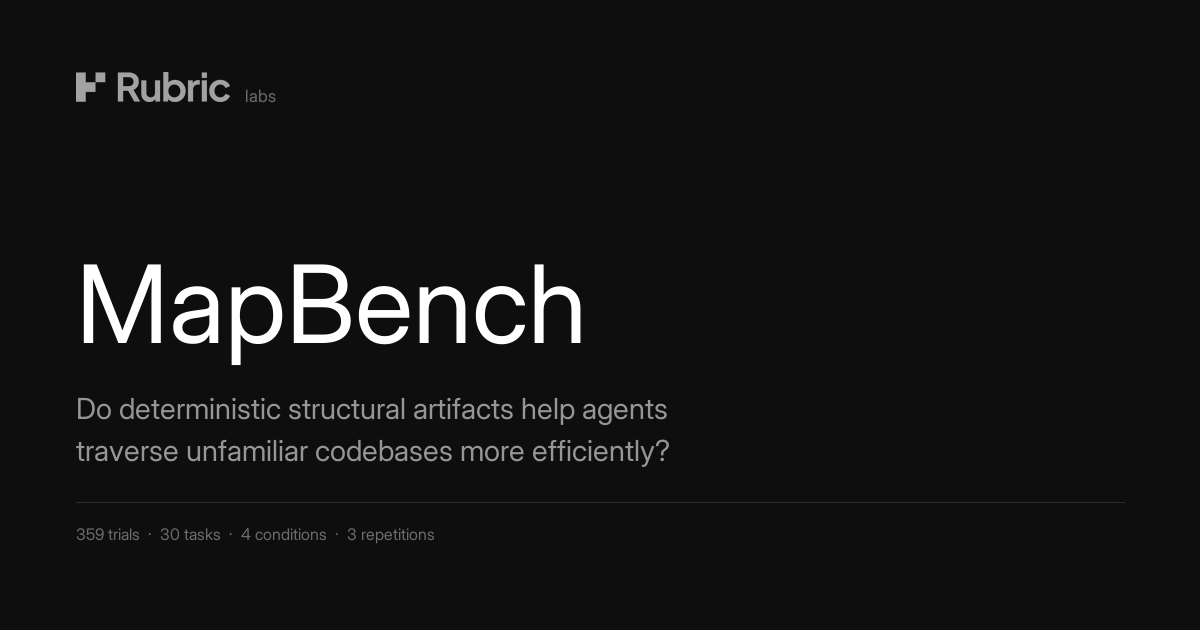
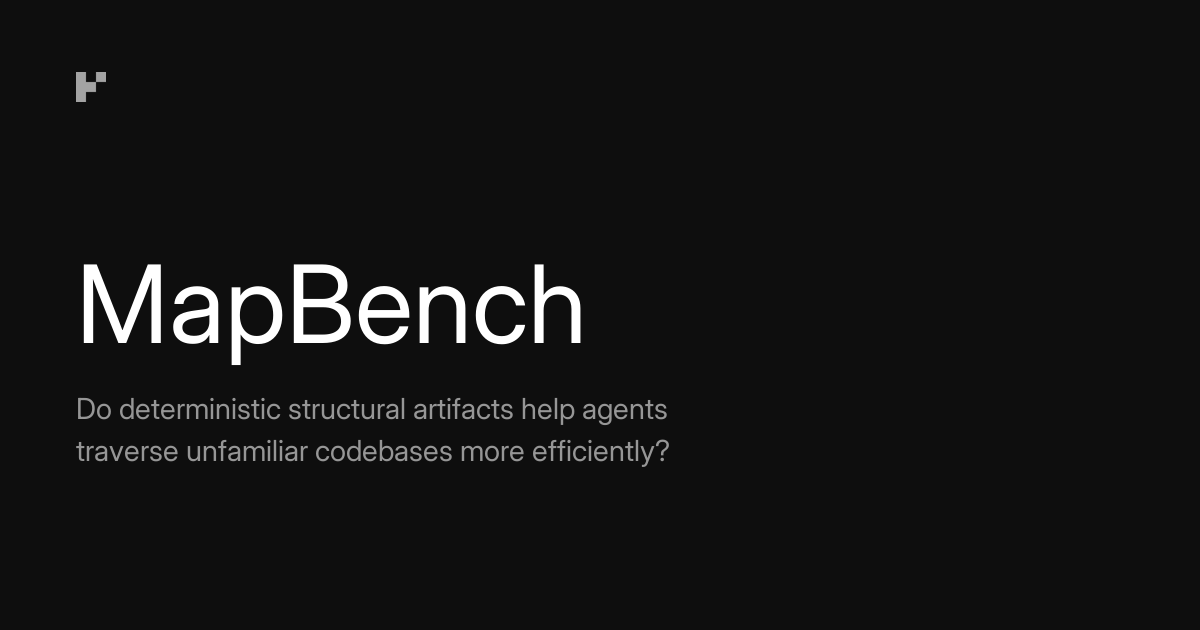
fix: web preview

diff --git a/scripts/generate-og.py b/scripts/generate-og.py
@@ -1,8 +1,7 @@
 """Regenerate public/og.png, the 1200x630 link-preview card.
 
-The card is the site's identity in one frame: the Rubric Labs lockup in the
-corner, the project name, the research question in the site's own words, and
-the measured sample. Run it after the headline numbers in src/results.js move.
+The card is the site's identity in one frame: the Rubric lockup in the
+corner, the project name, and the research question in the site's own words.
 
     python3 scripts/generate-og.py --font /path/to/Inter.ttf
 
@@ -21,15 +20,12 @@ PAD = 76
 PAPER = (255, 255, 255)
 INK = (14, 14, 14)
 MUTED = (150, 150, 150)
-DIM = (108, 108, 108)
-RULE = (44, 44, 44)
 
 TITLE = "MapBench"
 QUESTION = [
     "Do deterministic structural artifacts help agents",
     "traverse unfamiliar codebases more efficiently?",
 ]
-SAMPLE = "359 trials  ·  30 tasks  ·  4 conditions  ·  3 repetitions"
 
 
 def weighted(path, size, weight):
@@ -49,26 +45,26 @@ def tint(mask_image, color, opacity):
 def main():
     parser = argparse.ArgumentParser()
     parser.add_argument("--font", required=True, help="Inter variable TTF")
-    parser.add_argument("--wordmark", required=True, help="Rubric white wordmark PNG")
+    parser.add_argument(
+        "--icon",
+        default=str(ROOT / "public" / "rubric-logo.png"),
+        help="Rubric icon mark PNG (transparent background)",
+    )
     parser.add_argument("--out", default=str(ROOT / "public" / "og-card.png"))
     args = parser.parse_args()
 
     card = Image.new("RGB", (WIDTH, HEIGHT), INK)
     draw = ImageDraw.Draw(card)
 
-    # Rubric Labs lockup, top-left, quiet enough to stay a credit.
-    wordmark = Image.open(args.wordmark).convert("RGBA")
-    wordmark = wordmark.crop(wordmark.getbbox())
+    # Rubric icon, top-left, quiet enough to stay a credit.
+    icon = Image.open(args.icon).convert("RGBA")
+    icon = icon.crop(icon.getbbox())
     target_height = 30
-    scale = target_height / wordmark.height
-    wordmark = wordmark.resize((round(wordmark.width * scale), target_height), Image.LANCZOS)
-    wordmark = tint(wordmark, PAPER, 0.62)
-    wordmark_top = PAD - 4
-    card.paste(wordmark, (PAD, wordmark_top), wordmark)
-
-    # "labs" rides the wordmark's own baseline so the lockup reads as one unit.
-    label = weighted(args.font, 17, 460)
-    draw.text((PAD + wordmark.width + 15, wordmark_top + target_height), "labs", font=label, fill=DIM, anchor="ls")
+    scale = target_height / icon.height
+    icon = icon.resize((round(icon.width * scale), target_height), Image.LANCZOS)
+    icon = tint(icon, PAPER, 0.62)
+    icon_top = PAD - 4
+    card.paste(icon, (PAD, icon_top), icon)
 
     # Project name.
     title_font = weighted(args.font, 108, 640)
@@ -81,11 +77,6 @@ def main():
     for line in QUESTION:
         draw.text((PAD, y), line, font=question_font, fill=MUTED)
         y += 42
-
-    # Measured sample, the same framing as the results page.
-    draw.line([(PAD, HEIGHT - PAD - 52), (WIDTH - PAD, HEIGHT - PAD - 52)], fill=RULE, width=1)
-    sample_font = weighted(args.font, 16, 460)
-    draw.text((PAD, HEIGHT - PAD - 30), SAMPLE, font=sample_font, fill=DIM)
 
     card.save(args.out, "PNG", optimize=True)
     print(f"wrote {args.out} ({WIDTH}x{HEIGHT})")
